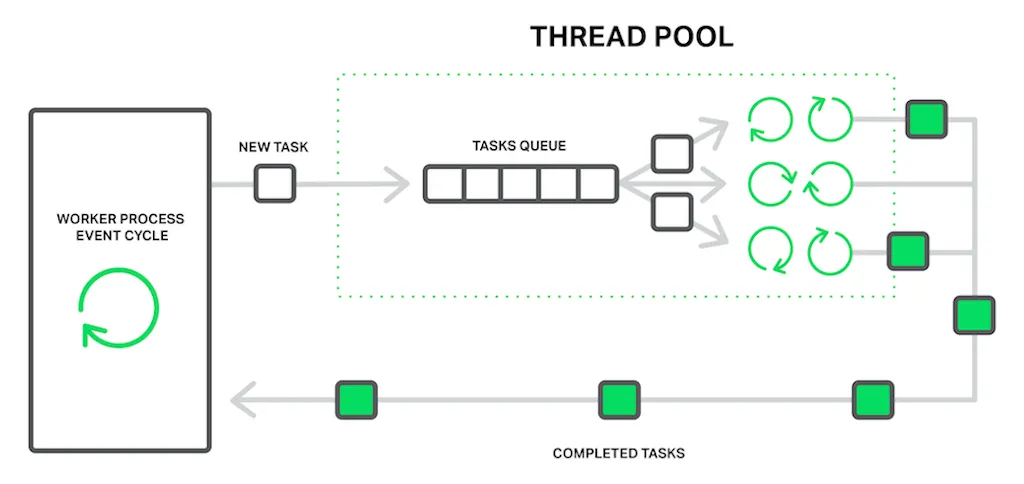
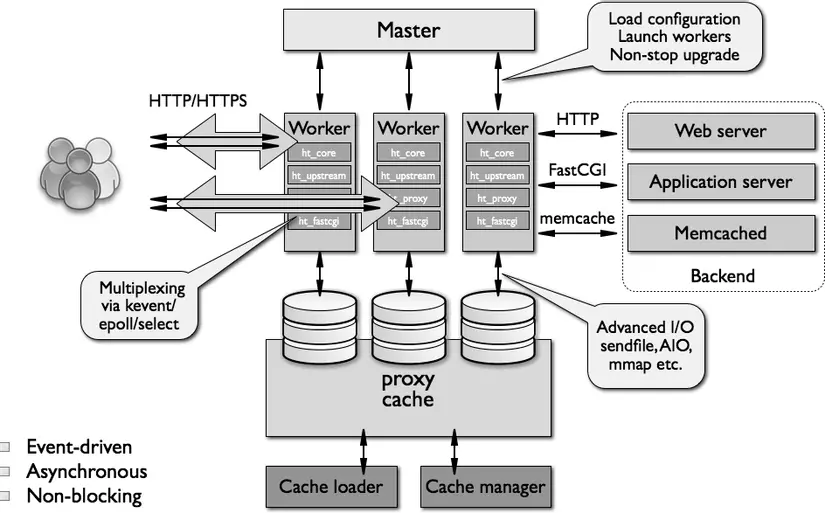
"bo sung"

diff --git a/BaoTG/03.Linux/audit.md b/BaoTG/03.Linux/audit.md
@@ -1,2 +1,10 @@
-# TÌM HIỂU VỀ AUDIT
-##
+# TÌM HIỂU VỀ AUDITD
+## KHÁI NIỆM
+- auditd (Linux Audit Daemon) chính là "camera giám sát" tối cao của hệ điều hành Linux. Nó là một dịch vụ chạy ngầm ở tầng hệ thống, có nhiệm vụ theo dõi, ghi lại một cách chi tiết và không thể chối cãi mọi hành vi can thiệp vào Nhân Linux (Kernel).
+
+- Khác với các file log thông thường như syslog hay journald (vốn chỉ ghi lại thông báo từ các phần mềm), auditd bắt lấy các System Calls (Lời gọi hệ thống). Điều này có nghĩa là cho dù một user cố tình che giấu hành vi bằng cách xóa lịch sử gõ lệnh (history -c), mọi hành động đọc, ghi file hay chạy phần mềm của họ vẫn bị auditd tóm gọn.
+
+## CÁCH THỨC HOẠT ĐỘNG CỦA AUDITD
+- Hệ thống auditd được chia làm hai không gian làm việc rõ rệt:
++ Tầng Nhân (Kernel Space): Nơi đây chứa các bộ lọc (như audit_filter). Khi có bất kỳ một hành động nào xảy ra (ví dụ: mở file, đổi IP, gọi lệnh sudo), Kernel sẽ kiểm tra xem hành động đó có nằm trong danh sách cần theo dõi hay không. Nếu có, nó sẽ đẩy dữ liệu qua một hàng đợi (Netlink socket) để gửi lên tầng trên.
++ Tầng Người dùng (User Space): auditd daemon sẽ túc trực để hứng dữ liệu từ Kernel gửi lên, sau đó ghi trực tiếp vào file log tại đường dẫn `/var/log/audit/audit.log`.

diff --git a/BaoTG/03.Linux/labs/lvm.md b/BaoTG/03.Linux/labs/lvm.md
@@ -28,9 +28,9 @@
 - Vậy là ta đã thành công mở rộng ổ đĩa từ 20GB -> 22GB trên Ubuntu sử dụng cơ chế quản lý lưu trữ Standard Partitioning
 
 ## LVM
-## Mô tả
+### Mô tả
 Mở rộng ổ đĩa thêm 4GB và gán 4GB đó vào thư mục /home để lưu trữ dữ liệu
-## Các bước thực hiện
+### Các bước thực hiện
 - Đầu tiên ta cần mở rộng ổ đĩa ở trên VMware, click chuột phải vào máy ảo Ubuntu Server, chọn mục Hard Disk, click vào Expand và chọn dung lượng muốn mở rộng
 - Ở đây, ta sẽ mở rộng thêm 4GB cho máy ảo
 ![LVM](../images/lvm_8.png)
